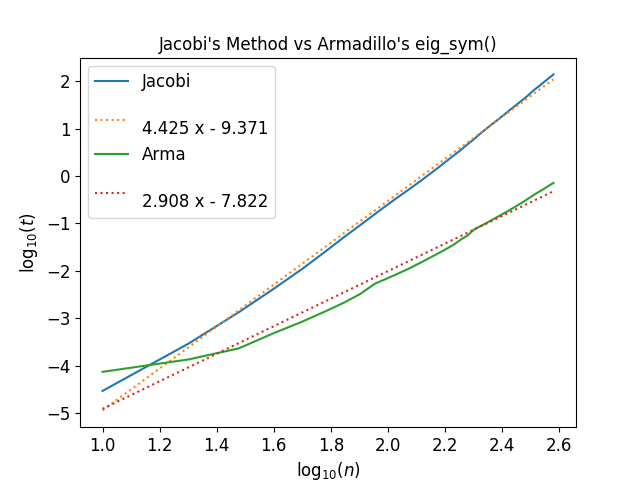
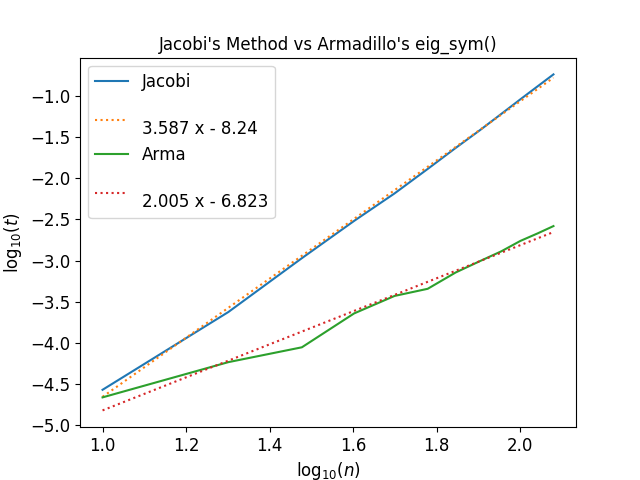
small changes

diff --git a/P2/benchmark.cpp b/P2/benchmark.cpp
@@ -17,11 +17,11 @@ int main()
     vec eigval;
     mat eigvec;
     int N;
-    int m = 1;
+    int m = 10;
     double average_time_jacobi = 0;
     double average_time_arma = 0;
     //Runs Jacobis method and Armadillos eig_sym n = 10, 20, ..., 120
-    for(int n = 10; n <= 380; n += 10)
+    for(int n = 10; n <= 120; n += 10)
     {
         //Runs the methods m = 10 times for each n, then averages the times
         for(int i = 0; i < m; i++)
